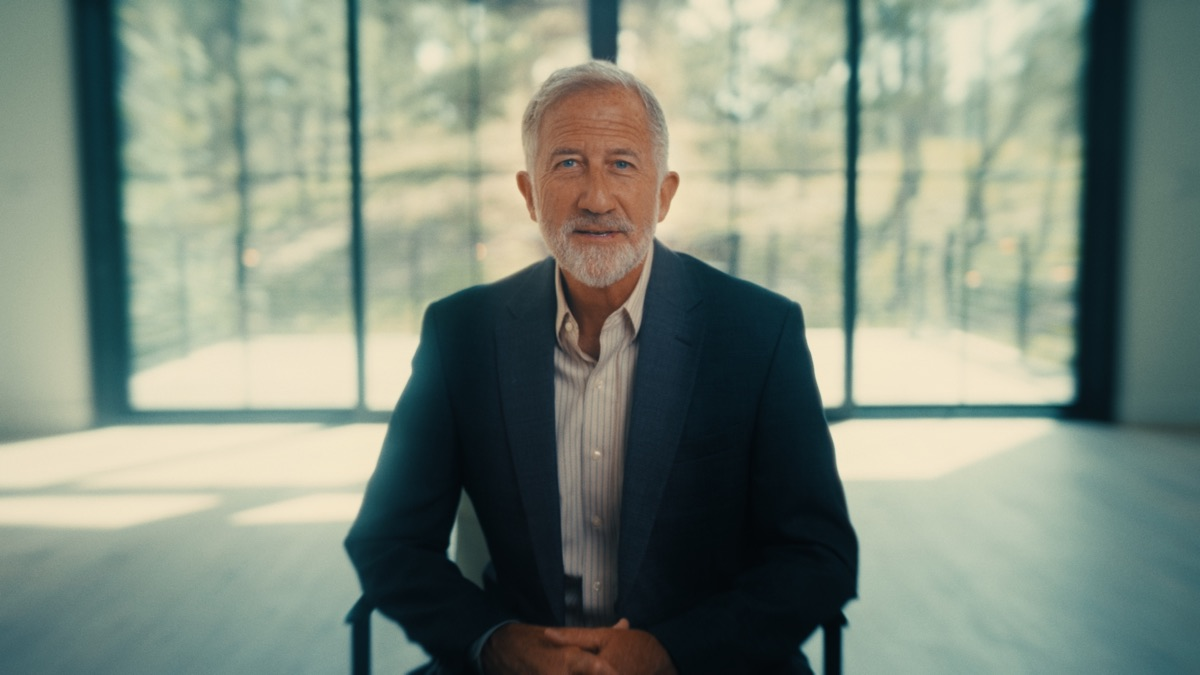
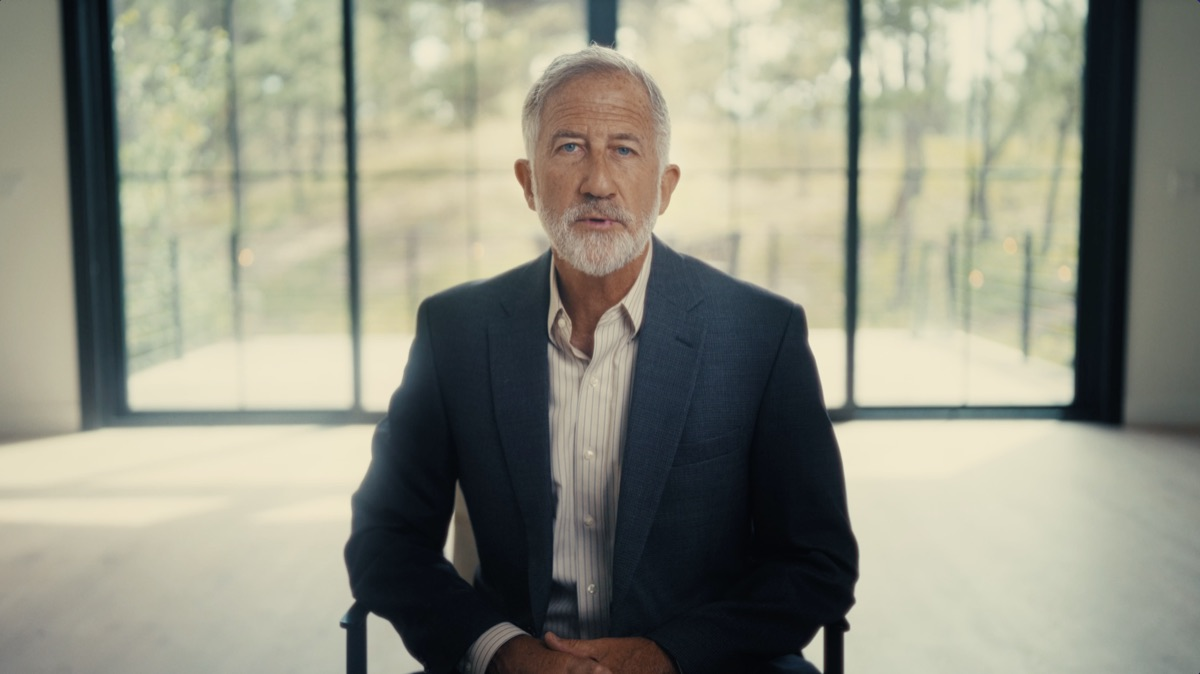
Work: use the new screenshot thumbnail

diff --git a/AGENTS.md b/AGENTS.md
@@ -296,10 +296,10 @@ copy, gear, real links), then the share image with the real logo.
 ### Work update — 2026-09-28
 
 The first Work card is now Ryan’s Making the Impossible Possible for Radius Consulting,
-replacing Ridgeline. His supplied Johnny still is the thumbnail; a separate six-second,
+replacing Ridgeline. His September 8 screenshot (closer framing) replaces the original Johnny still as the thumbnail; a separate six-second,
 muted 720p preview plays on hover. Clicking opens the full 1:40 film with sound. The
 1080p picture was remuxed with Rec.709 flags, not re-encoded; audio is AAC 128 kbps.
-Assets total about 34 MB plus a 337 KB preview and 114 KB still. Project.preview is
+Assets total about 34 MB plus a 337 KB preview and an optimized screenshot thumbnail. Project.preview is
 optional; placeholders continue using their film URL. Missing notes, role, year and
 description stay hidden rather than showing invented credits or copy. Ryan still needs
 to supply those details and the remaining five films. Reduced-motion skips hover autoplay.
